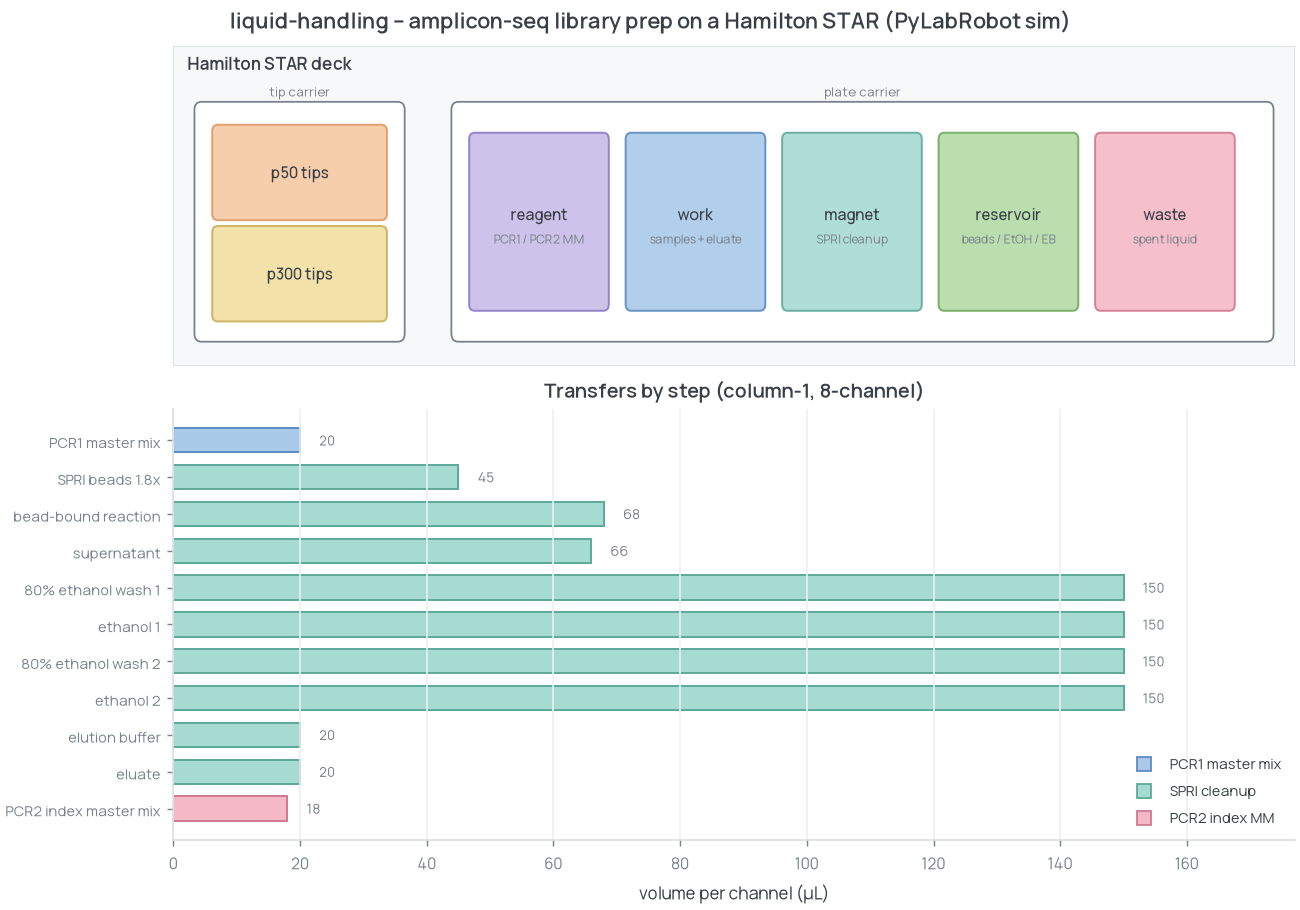
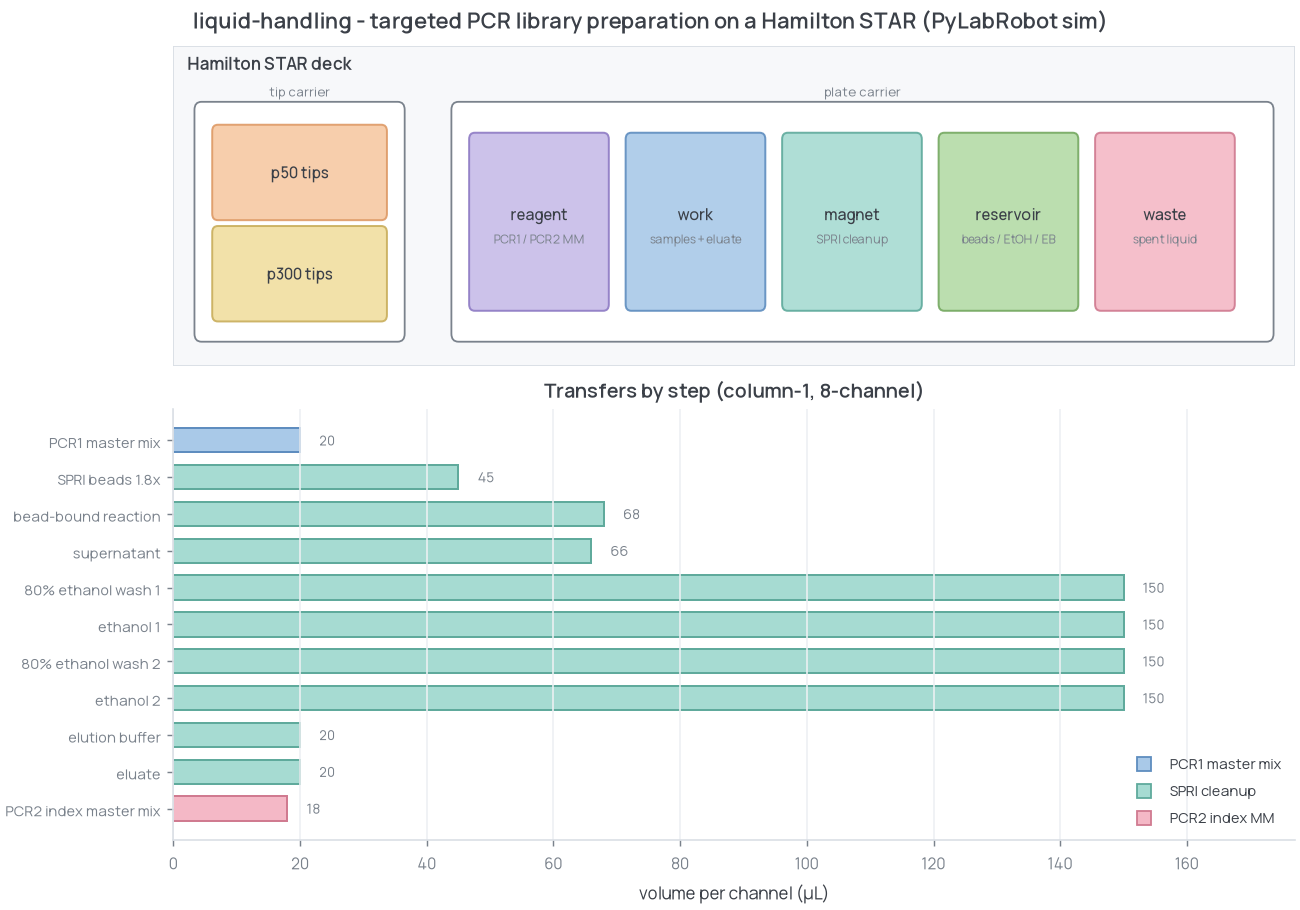
Standardize targeted PCR demo terminology

Changed region(s): [[0.1538, 0.0, 0.8615, 0.0308]]

diff --git a/liquid-handling/run_protocol.py b/liquid-handling/run_protocol.py
@@ -1,5 +1,5 @@
 #!/usr/bin/env python3
-"""Targeted PCR library prep on a Hamilton STAR, PyLabRobot chatterbox (simulation)
+"""Targeted PCR library preparation on a Hamilton STAR, PyLabRobot chatterbox (simulation)
 backend -- no hardware. Column-1, 8-channel, three phases:
 
   1. PCR1 master mix  -> add master mix to templates
@@ -116,7 +116,7 @@ def main():
         transfers=("volume_ul", "size"), volume_ul=("volume_ul", "sum")).reset_index()
     summ.to_csv(DATA / "protocol_summary.tsv", sep="\t", index=False)
 
-    print("=== Hamilton STAR amplicon-seq library prep (synthetic, chatterbox sim) ===")
+    print("=== Hamilton STAR targeted PCR library preparation (synthetic, chatterbox sim) ===")
     print(f"mode: {'DRY / simulated' if DRY_RUN else 'REAL'}   |   column-1, 8-channel   |   3 phases")
     print(summ.to_string(index=False))
     print(f"\ntotal transfers: {len(wl)}   |   tips used: p50={tips['p50']*8}, p300={tips['p300']*8}"

diff --git a/liquid-handling/plots.py b/liquid-handling/plots.py
@@ -74,7 +74,7 @@ def main():
     gs = GridSpec(2, 1, height_ratios=[1, 1.35], figure=fig)
     deck_map(fig.add_subplot(gs[0]))
     transfers(fig.add_subplot(gs[1]))
-    fig.suptitle("liquid-handling - amplicon-seq library prep on a Hamilton STAR (PyLabRobot sim)",
+    fig.suptitle("liquid-handling - targeted PCR library preparation on a Hamilton STAR (PyLabRobot sim)",
                  fontsize=12, weight="semibold")
     out = ASSETS / "libprep_qc.png"; fig.savefig(out)
     print("wrote", out)

diff --git a/liquid-handling/README.md b/liquid-handling/README.md
@@ -1,6 +1,6 @@
 # liquid-handling
 
-Targeted PCR library prep on a Hamilton STAR, driven by **PyLabRobot** in simulation
+Targeted PCR library preparation on a Hamilton STAR, driven by **PyLabRobot** in simulation
 (chatterbox) mode - the whole protocol executes and logs every deck action with **no
 hardware**. This is the automation layer under the rest of the omics stack: hand it a
 plate of templates, it runs library prep and hands back an indexed library plus a
@@ -32,7 +32,7 @@ master mix and elution, p300 tips handle beads, supernatant, and ethanol.
 ## Example output
 
 ```
-=== Hamilton STAR amplicon-seq library prep (synthetic, chatterbox sim) ===
+=== Hamilton STAR targeted PCR library preparation (synthetic, chatterbox sim) ===
 mode: DRY / simulated   |   column-1, 8-channel   |   3 phases
           phase  transfers  volume_ul
 PCR1 master mix          1         20

diff --git a/README.md b/README.md
@@ -104,7 +104,7 @@ All 3 planted CNVs (chr2 gain 1.5x, chr3 loss 0.5x, chr5 gain 2.0x) recovered ex
 
 ## Automation & interactive
 
-### liquid-handling - targeted PCR library prep on a Hamilton STAR
+### liquid-handling - targeted PCR library preparation on a Hamilton STAR
 PCR1 master mix, SPRI bead cleanup, and PCR2 indexing on a Hamilton STAR deck via
 PyLabRobot's simulation backend - no hardware. Worklist matches plan: 11/11 transfers,
 857/857 uL, PASS.